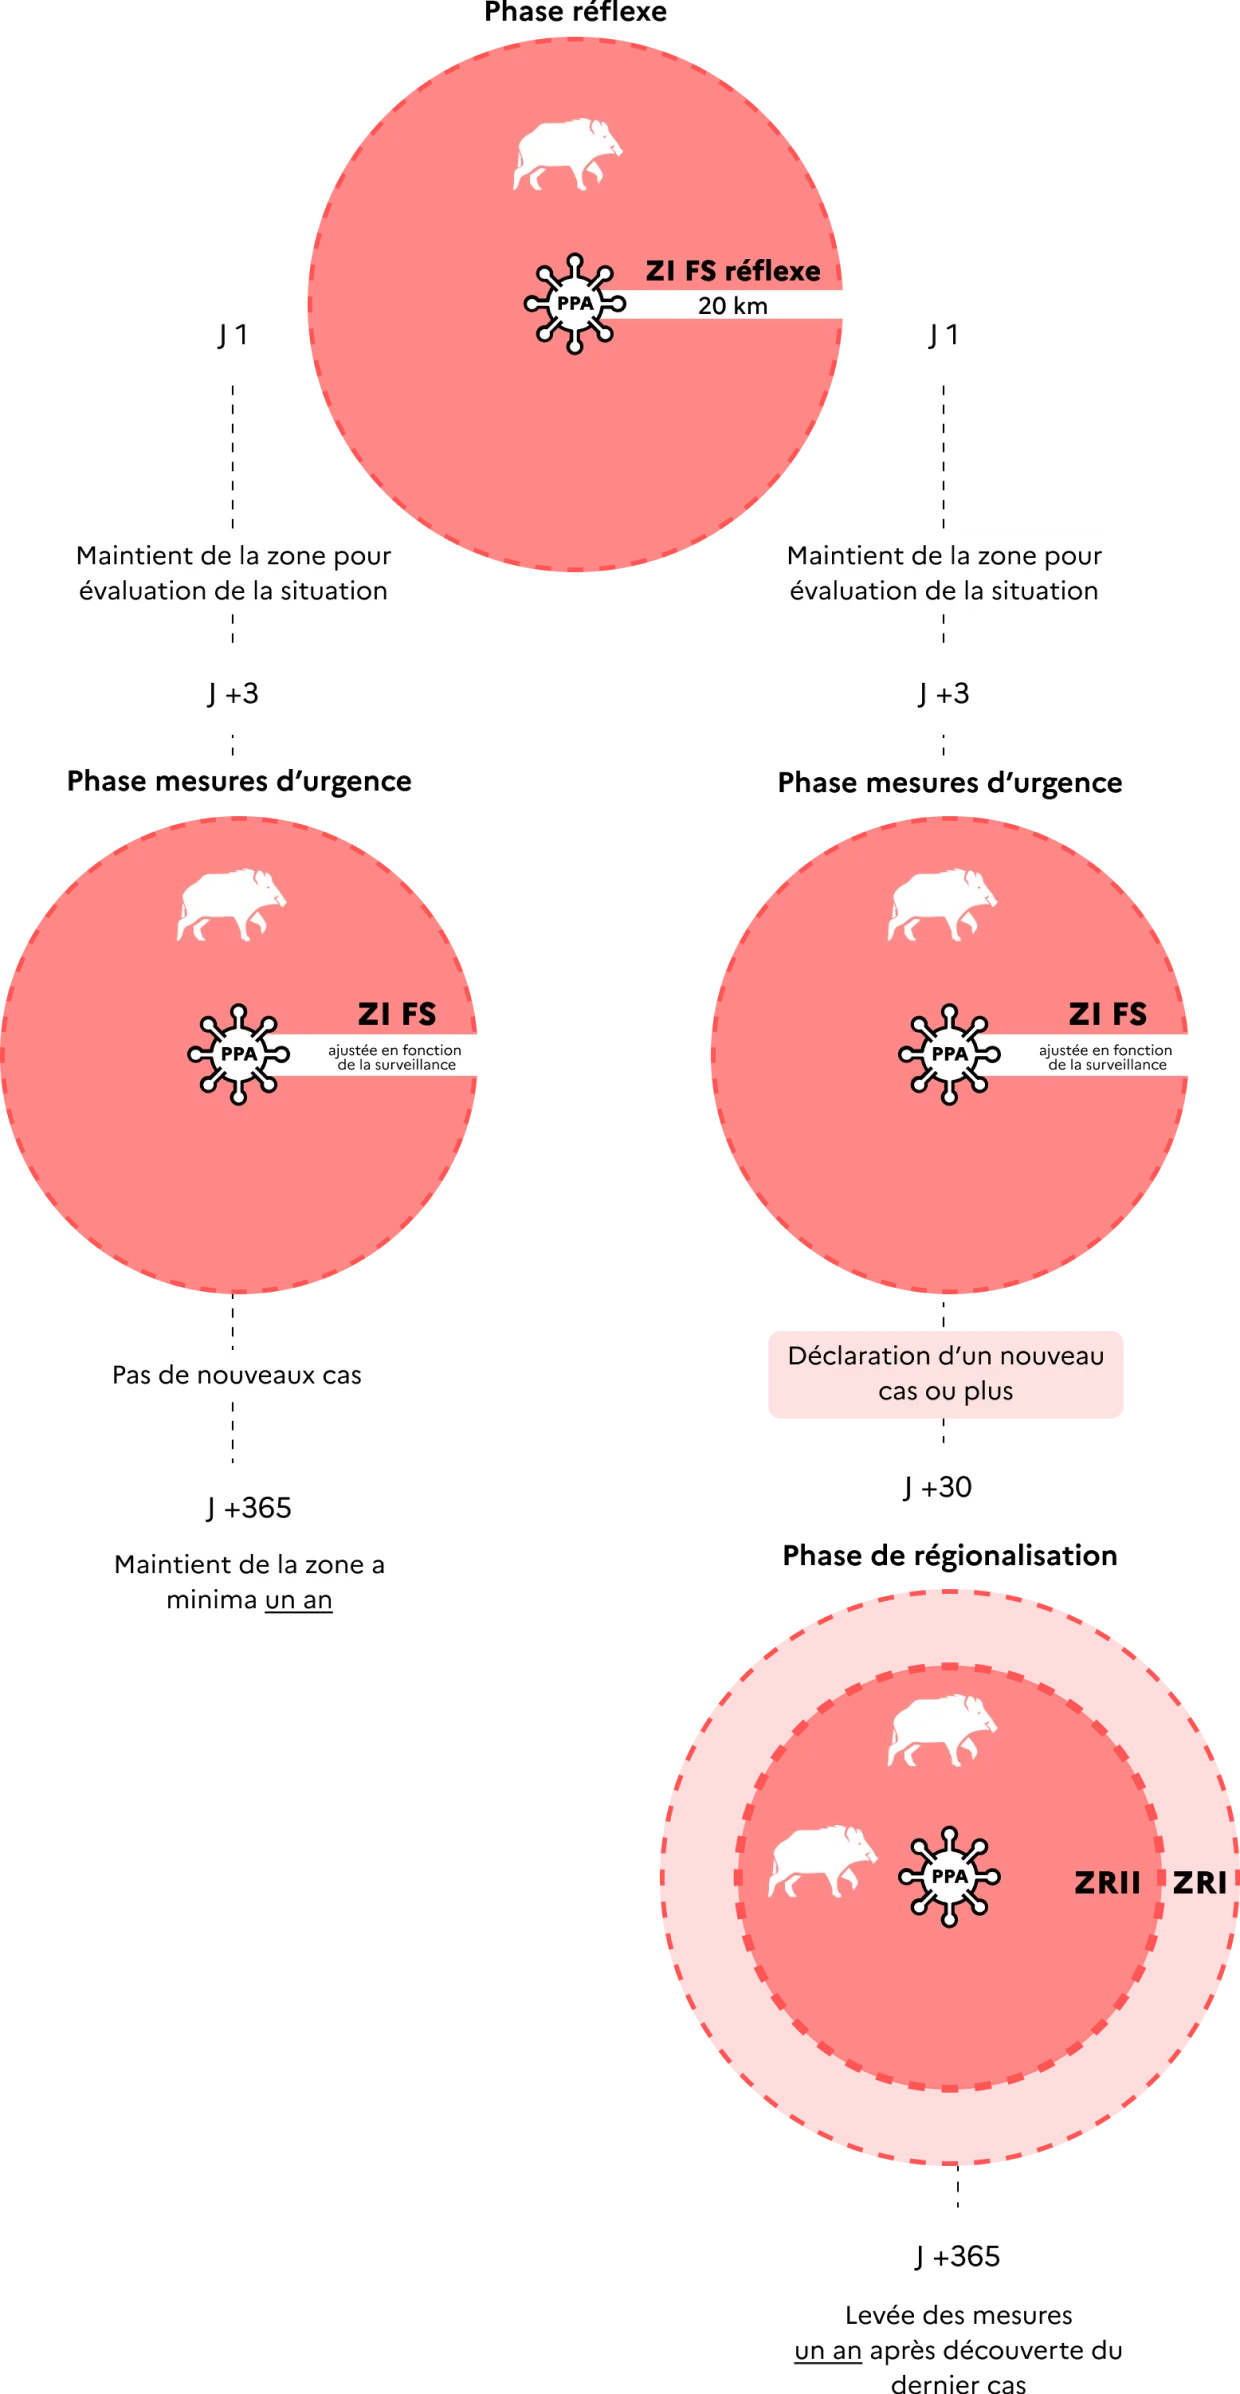
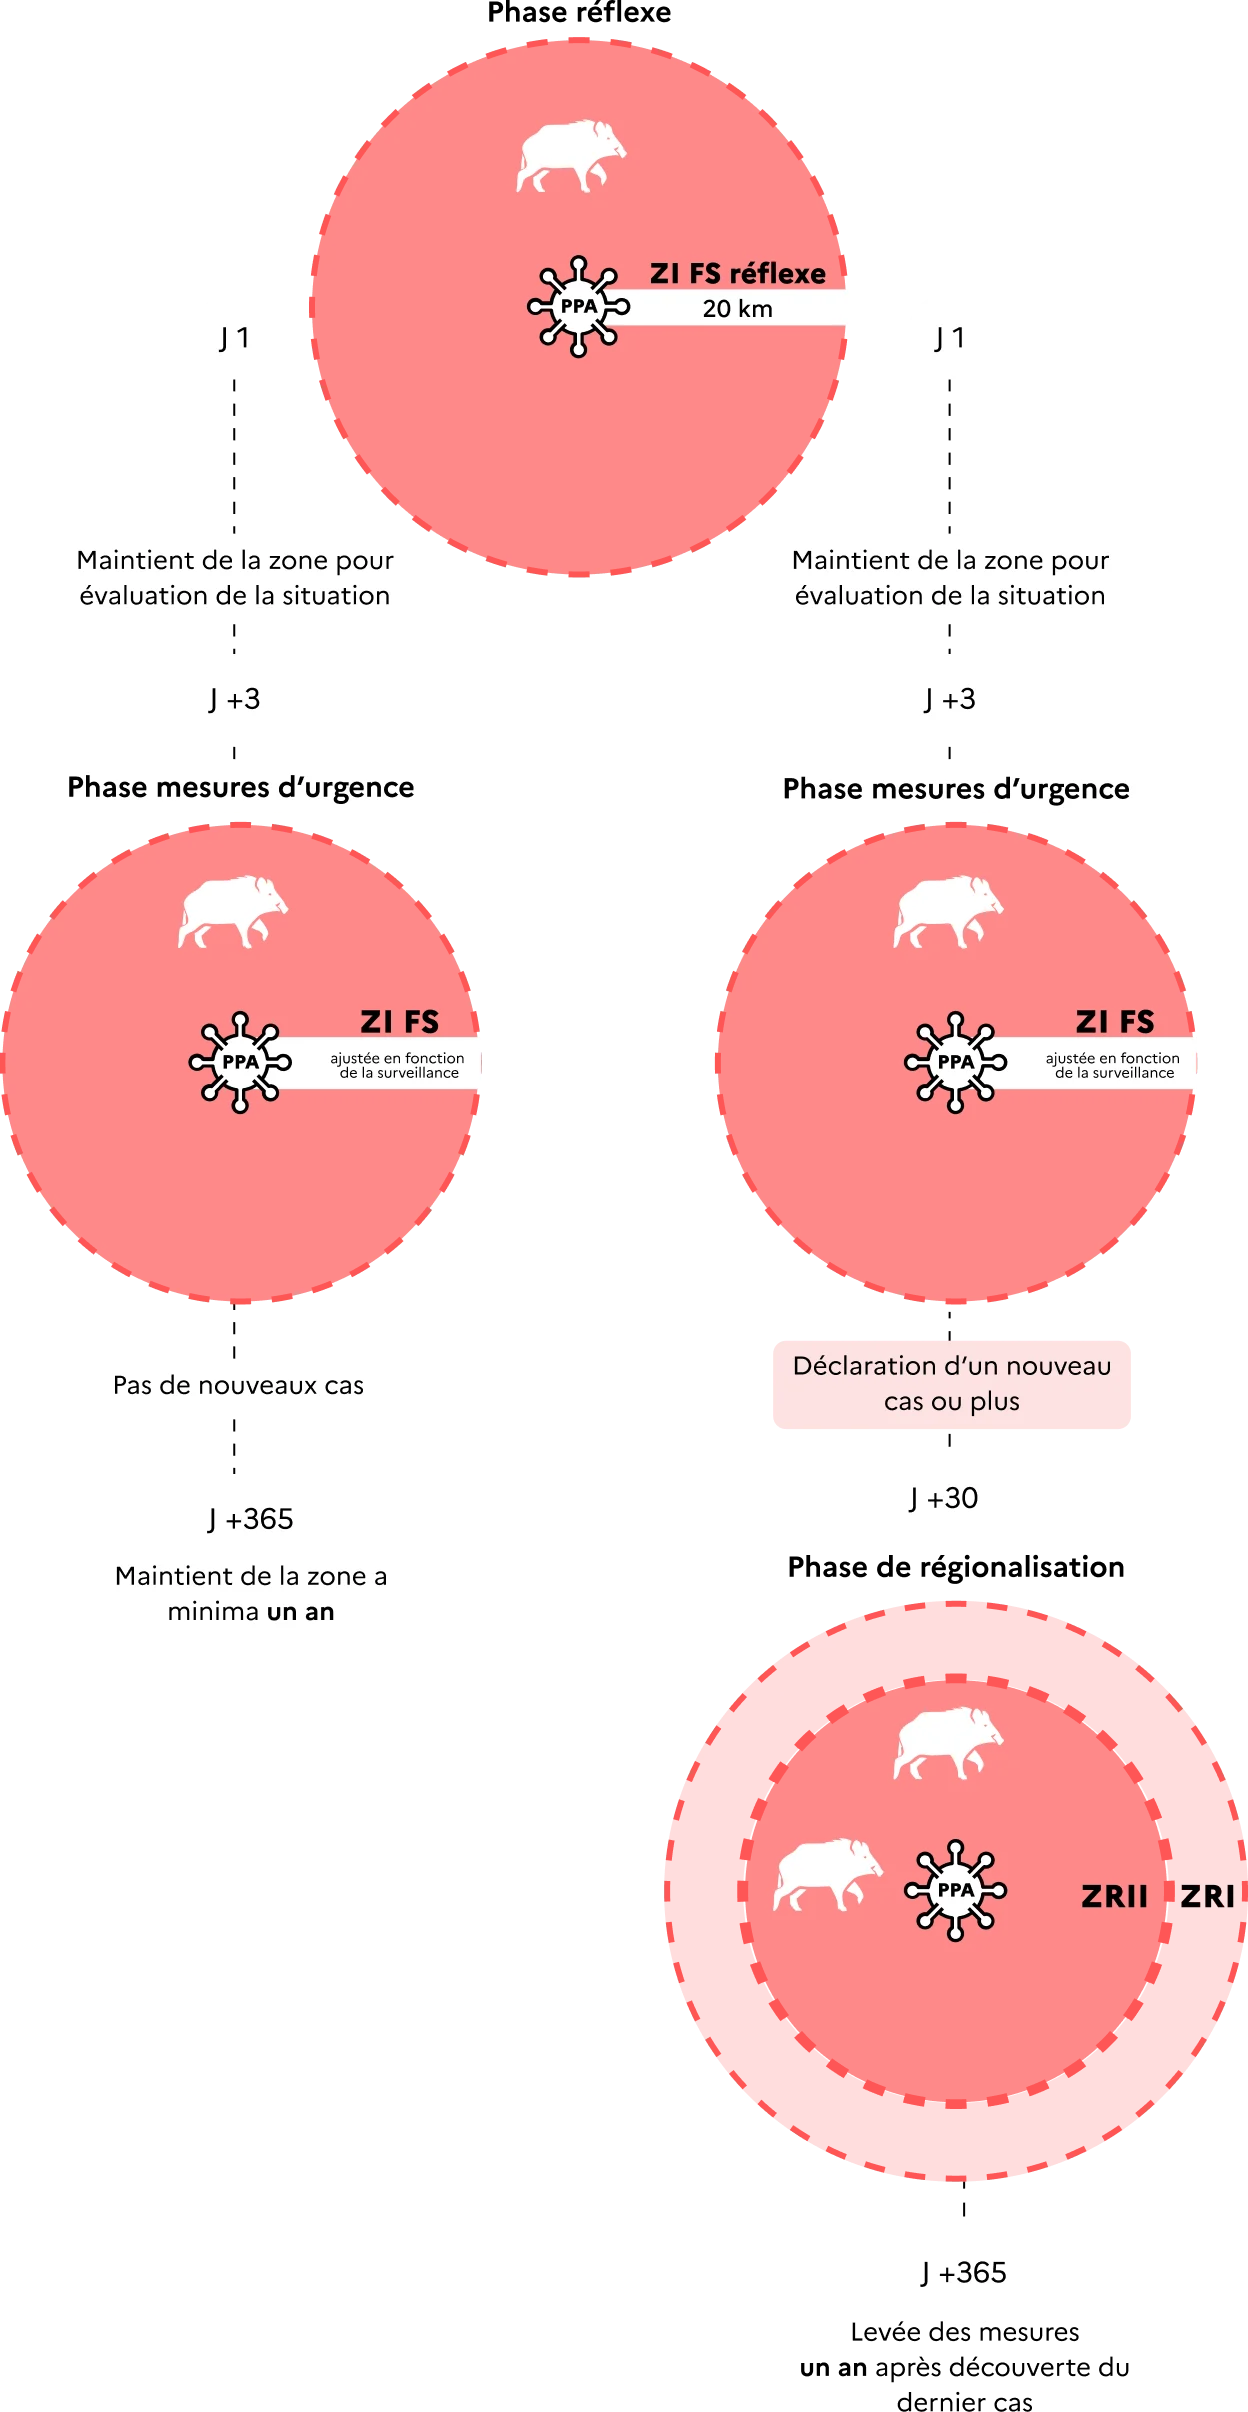
fix(documentation): retours de recette sur la section
Nouvel onglet pour ne pas perdre une simulation, retour en haut à chaque page, corpus replié et schémas des zones corrigés.

diff --git a/tests/e2e/documentation-reglementaire.spec.ts b/tests/e2e/documentation-reglementaire.spec.ts
@@ -22,11 +22,14 @@ test.describe("Documentation réglementaire", () => {
   });
 
   for (const fiche of FICHES) {
-    test(`la carte « ${fiche} » mène à sa fiche`, async ({ page }) => {
+    test(`la carte « ${fiche} » mène à sa fiche, affichée depuis le haut`, async ({ page }) => {
       await page.goto("/documentation-reglementaire");
+      // Accueil défilé : la fiche ne doit pas hériter de cette position.
+      await page.evaluate(() => window.scrollTo(0, document.body.scrollHeight));
       await page.locator(".fr-card__title").getByRole("link", { name: fiche }).click();
 
-      await expect(page.getByRole("heading", { level: 1, name: fiche })).toBeVisible();
+      await expect(page.getByRole("heading", { level: 1, name: fiche })).toBeInViewport();
+      expect(await page.evaluate(() => window.scrollY)).toBe(0);
       await expect(page).toHaveTitle(`${fiche} — Odicé`);
       await expect(
         page.locator(".fr-breadcrumb").getByRole("link", { name: "Documentation réglementaire" }),
@@ -41,6 +44,15 @@ test.describe("Documentation réglementaire", () => {
     ).toHaveAttribute("aria-current", "page");
   });
 
+  test("le menu ouvre la documentation dans un nouvel onglet", async ({ page }) => {
+    await page.goto("/simulateurs");
+    const lien = page.locator(".fr-nav").getByRole("link", { name: "Documentation réglementaire" });
+    await expect(lien).toHaveAttribute("target", "_blank");
+    const [onglet] = await Promise.all([page.waitForEvent("popup"), lien.click()]);
+    await expect(onglet).toHaveURL(/\/documentation-reglementaire$/);
+    await expect(page).toHaveURL(/\/simulateurs$/);
+  });
+
   test("chaque carte affiche son visuel", async ({ page }) => {
     await page.goto("/documentation-reglementaire");
     const images = page.locator(".fr-card__img img");
@@ -51,14 +63,18 @@ test.describe("Documentation réglementaire", () => {
     }
   });
 
-  test("le corpus présente trois accordéons, seul le premier ouvert", async ({ page }) => {
+  test("le corpus présente trois accordéons, tous fermés", async ({ page }) => {
     await page.goto("/documentation-reglementaire/corpus-reglementaire");
     const reglements = page.getByRole("button", { name: "Règlements européens" });
     const arretes = page.getByRole("button", { name: "Arrêtés ministériels" });
     const instructions = page.getByRole("button", { name: "Instructions techniques" });
-    await expect(reglements).toHaveAttribute("aria-expanded", "true");
-    await expect(arretes).toHaveAttribute("aria-expanded", "false");
-    await expect(instructions).toHaveAttribute("aria-expanded", "false");
+    for (const bouton of [reglements, arretes, instructions]) {
+      await expect(bouton).toHaveAttribute("aria-expanded", "false");
+    }
+    await expect(
+      page.getByRole("heading", { level: 3, name: "Règlement (UE) 2016/429" }),
+    ).toBeHidden();
+    await reglements.click();
 
     // 8 règlements + 3 arrêtés + 8 instructions, tous en nouvel onglet.
     const liens = page.locator(".fr-accordion a");

diff --git a/src/features/documentation/pages/ZonesReglementeesPage.tsx b/src/features/documentation/pages/ZonesReglementeesPage.tsx
@@ -33,15 +33,14 @@ export function ZonesReglementeesPage() {
         </Definition>
         <Definition terme="Zone infectée faune sauvage (ZI FS)">
           zone mise en place lors de la détection d'un cas de PPA dans la faune sauvage, ajustée
-          selon la surveillance en ZI FS réflexe (phase mesures d'urgence).
+          selon la surveillance en ZI FS réflexe.
         </Definition>
         <Definition terme="Zone de protection (ZP)">
           zone d'environ 3 km de rayon mise en place lors de la détection d'un foyer de PPA en
-          élevage (phase mesures d'urgence).
+          élevage.
         </Definition>
         <Definition terme="Zone de surveillance (ZS)">
-          zone d'environ 10 km de rayon mise en place autour de la zone de protection (phase mesures
-          d'urgence).
+          zone d'environ 10 km de rayon mise en place autour de la zone de protection.
         </Definition>
       </section>
 
@@ -51,14 +50,13 @@ export function ZonesReglementeesPage() {
         <TitreSection>Phase de régionalisation</TitreSection>
         <Definition terme="Zone réglementée I (ZRI)">
           zone indemne de PPA soumise à des mesures de surveillance et de prévention en raison de sa
-          proximité avec une zone où la maladie est présente (phase de régionalisation).
+          proximité avec une zone où la maladie est présente.
         </Definition>
         <Definition terme="Zone réglementée II (ZRII)">
-          zone dans laquelle la PPA est uniquement présente dans la faune sauvage (phase de
-          régionalisation).
+          zone dans laquelle la PPA est uniquement présente dans la faune sauvage.
         </Definition>
         <Definition terme="Zone réglementée III (ZRIII)">
-          zone dans laquelle la PPA est présente chez les porcs détenus (phase de régionalisation).
+          zone dans laquelle la PPA est présente chez les porcs détenus.
         </Definition>
       </section>
 

diff --git a/src/features/documentation/pages/CorpusReglementairePage.tsx b/src/features/documentation/pages/CorpusReglementairePage.tsx
@@ -330,16 +330,16 @@ export function CorpusReglementairePage() {
         </>
       }
     >
-      {GROUPES.map((groupe, index) => (
-        <Accordeon key={groupe.titre} groupe={groupe} ouvert={index === 0} />
+      {GROUPES.map((groupe) => (
+        <Accordeon key={groupe.titre} groupe={groupe} />
       ))}
     </FicheDocumentation>
   );
 }
 
-// Accordéons DSFR indépendants (hors fr-accordions-group, qui n'en laisserait qu'un ouvert) ;
-// seul le premier est ouvert à l'arrivée (maquette). Ouverture/fermeture gérée par le JS DSFR.
-function Accordeon({ groupe, ouvert }: { groupe: Groupe; ouvert: boolean }) {
+// Accordéons DSFR indépendants (hors fr-accordions-group, qui n'en laisserait qu'un ouvert),
+// tous fermés à l'arrivée. Ouverture/fermeture gérée par le JS DSFR.
+function Accordeon({ groupe }: { groupe: Groupe }) {
   const id = useId();
   return (
     <section className="fr-accordion">
@@ -347,13 +347,13 @@ function Accordeon({ groupe, ouvert }: { groupe: Groupe; ouvert: boolean }) {
         <button
           type="button"
           className="fr-accordion__btn"
-          aria-expanded={ouvert}
+          aria-expanded="false"
           aria-controls={id}
         >
           {groupe.titre}
         </button>
       </h2>
-      <div className={`fr-collapse${ouvert ? " fr-collapse--expanded" : ""}`} id={id}>
+      <div className="fr-collapse" id={id}>
         {groupe.textes.map((texte, index) => (
           <article key={texte.url}>
             {index > 0 && <hr />}

diff --git a/src/features/legal/pages/PlanDuSitePage.tsx b/src/features/legal/pages/PlanDuSitePage.tsx
@@ -27,11 +27,25 @@ export function PlanDuSitePage() {
               <Link to={ROUTES.SIMULATEURS}>Simulateur</Link>
             </li>
             <li>
-              <Link to={ROUTES.DOCUMENTATION_REGLEMENTAIRE}>Documentation réglementaire</Link>
+              <Link
+                to={ROUTES.DOCUMENTATION_REGLEMENTAIRE}
+                target="_blank"
+                rel="noopener noreferrer"
+                title="Documentation réglementaire - nouvelle fenêtre"
+              >
+                Documentation réglementaire
+              </Link>
               <ul>
                 {FICHES.map((fiche) => (
                   <li key={fiche.route}>
-                    <Link to={fiche.route}>{fiche.titre}</Link>
+                    <Link
+                      to={fiche.route}
+                      target="_blank"
+                      rel="noopener noreferrer"
+                      title={`${fiche.titre} - nouvelle fenêtre`}
+                    >
+                      {fiche.titre}
+                    </Link>
                   </li>
                 ))}
               </ul>

diff --git a/src/features/documentation/components/SchemasZones.tsx b/src/features/documentation/components/SchemasZones.tsx
@@ -47,8 +47,8 @@ export function SchemaFoyerElevage() {
     <Schema
       titre="Foyer en élevage"
       image="/images/documentation/zones-foyer-elevage.webp"
-      largeur={1198}
-      hauteur={1584}
+      largeur={1180}
+      hauteur={1564}
       phaseInitiale="phase mesures d'urgence, avec une zone de protection (ZP) de 3 km entourée d'une zone de surveillance (ZS) de 10 km autour du foyer de PPA."
       branches={[
         {
@@ -73,8 +73,8 @@ export function SchemaFauneSauvage() {
     <Schema
       titre="Cas en faune sauvage"
       image="/images/documentation/zones-faune-sauvage.webp"
-      largeur={1240}
-      hauteur={2394}
+      largeur={1248}
+      hauteur={2412}
       phaseInitiale="phase réflexe, avec une zone infectée faune sauvage réflexe (ZI FS réflexe) de 20 km autour du cas de PPA."
       branches={[
         {

diff --git a/tests/e2e/biosecurite-niveaux-risque.spec.ts b/tests/e2e/biosecurite-niveaux-risque.spec.ts
@@ -113,10 +113,13 @@ test.describe("Fiche Biosécurité et niveaux de risque", () => {
     await expect(entete).toContainText("(voir document commercial)");
   });
 
-  test("le plan du site mène à la page", async ({ page }) => {
+  test("le plan du site mène à la page dans un nouvel onglet", async ({ page }) => {
     await page.goto("/plan-du-site");
-    await page.getByRole("link", { name: "Biosécurité et niveaux de risque" }).click();
-    await expect(page).toHaveURL(/\/biosecurite-niveaux-de-risque$/);
+    const [onglet] = await Promise.all([
+      page.waitForEvent("popup"),
+      page.getByRole("link", { name: "Biosécurité et niveaux de risque" }).click(),
+    ]);
+    await expect(onglet).toHaveURL(/\/biosecurite-niveaux-de-risque$/);
   });
 
   test("l'ancienne URL redirige vers la fiche", async ({ page }) => {

diff --git a/src/App.tsx b/src/App.tsx
@@ -2,6 +2,7 @@ import { Routes, Route, Navigate } from "react-router-dom";
 import { ROUTES } from "@shared/config/routes.config";
 import { ErrorBoundary } from "@shared/components/ErrorBoundary";
 import { Layout } from "@shared/components/layout/Layout";
+import { ScrollToTop } from "@shared/components/layout/ScrollToTop";
 import { Matomo } from "@shared/analytics";
 import { HomePage } from "@features/home/pages/HomePage";
 import { SimulateursIndexPage } from "@features/simulateurs/pages/SimulateursIndexPage";
@@ -27,6 +28,7 @@ function App() {
   return (
     <Layout>
       <Matomo />
+      <ScrollToTop />
       <ErrorBoundary fallback={<ErrorFallbackPage />}>
         <Routes>
           <Route path={ROUTES.HOME} element={<HomePage />} />

diff --git a/src/shared/components/layout/Layout.tsx b/src/shared/components/layout/Layout.tsx
@@ -92,6 +92,10 @@ export function Layout({ children }: LayoutProps) {
                   <NavLink
                     to={ROUTES.DOCUMENTATION_REGLEMENTAIRE}
                     className="fr-nav__link"
+                    // Nouvel onglet pour ne pas perdre une simulation en cours.
+                    target="_blank"
+                    rel="noopener noreferrer"
+                    title="Documentation réglementaire - nouvelle fenêtre"
                     onClick={() => trackEvent(MATOMO_ANNEXES.DOCUMENTATION_REGLEMENTAIRE)}
                   >
                     Documentation réglementaire

diff --git a/src/shared/components/layout/ScrollToTop.tsx b/src/shared/components/layout/ScrollToTop.tsx
@@ -1,0 +1,16 @@
+import { useEffect } from "react";
+import { useLocation, useNavigationType } from "react-router-dom";
+
+// Le routeur conserve la position de défilement d'une page à l'autre : on repart du haut,
+// sauf retour arrière (le navigateur restaure la position) ou lien vers une ancre.
+export function ScrollToTop(): null {
+  const { pathname, hash } = useLocation();
+  const navigationType = useNavigationType();
+
+  useEffect(() => {
+    if (hash || navigationType === "POP") return;
+    window.scrollTo(0, 0);
+  }, [pathname, hash, navigationType]);
+
+  return null;
+}
